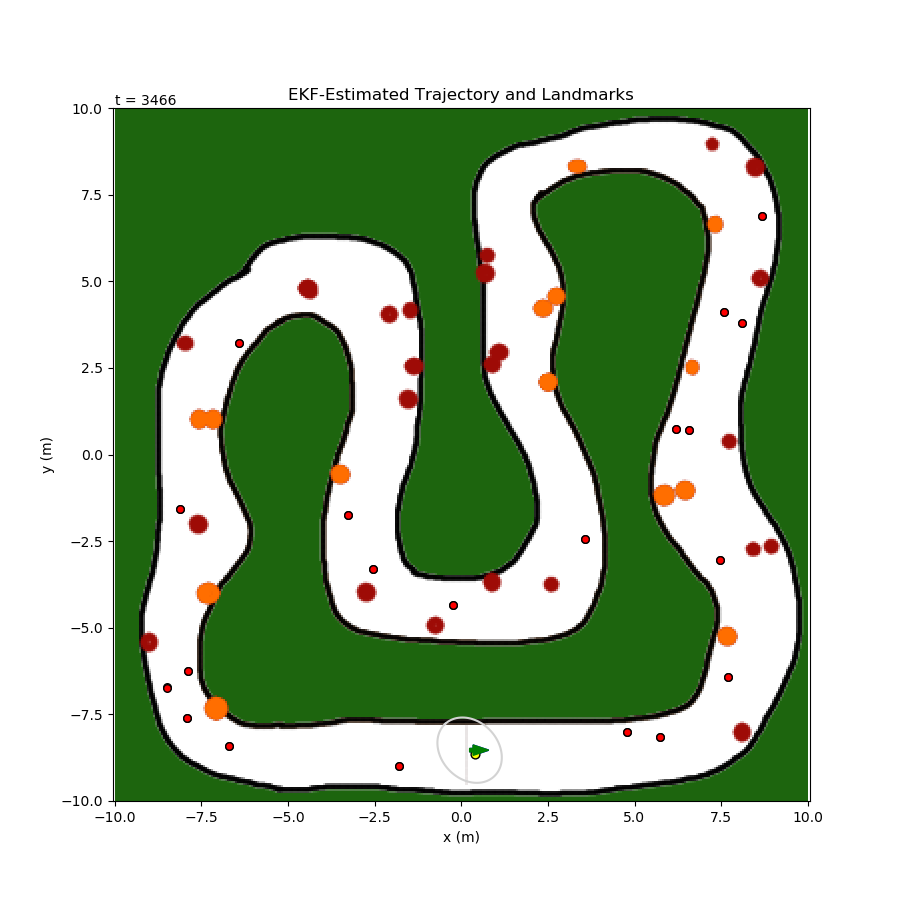
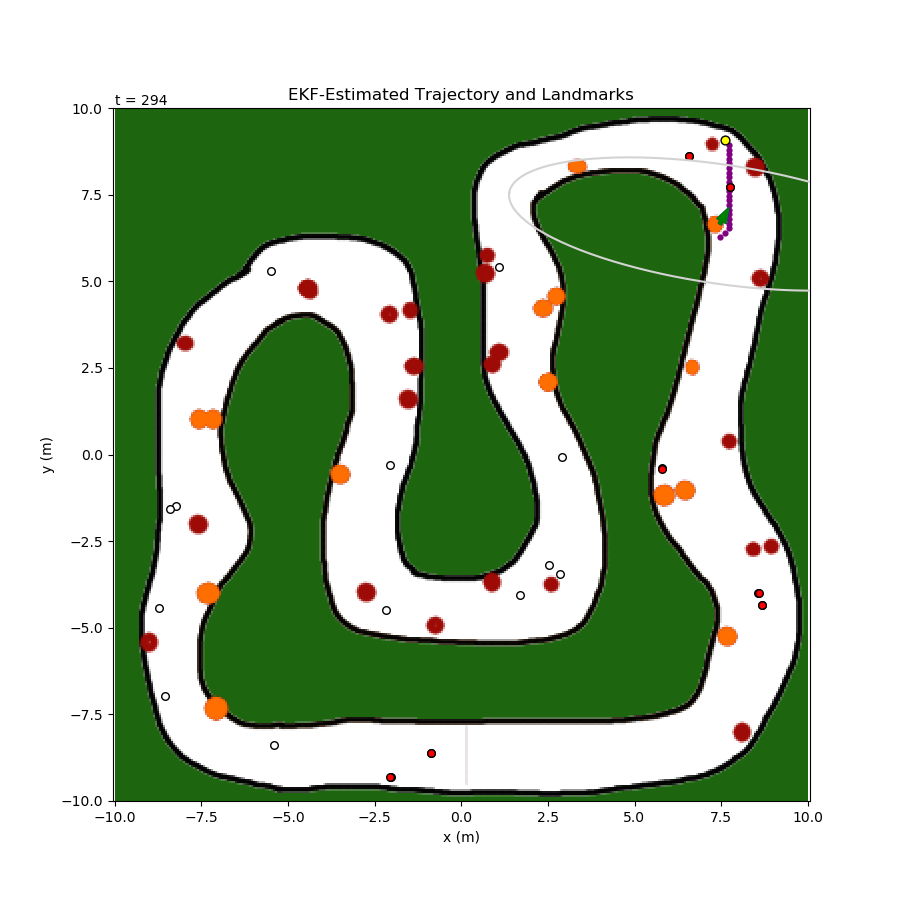
Implement autonomous local planning. Fails if the robot enters an occluded cell (via sloppy pp nav), since A* can never generate a path from there.

diff --git a/ekf_ws/src/planning_pkg/src/astar.py b/ekf_ws/src/planning_pkg/src/astar.py
@@ -3,10 +3,61 @@
 """
 Set of static functions to perform A* path planning.
 """
+from math import cos, sin
 
 class Astar:
     # Always use the same map.
     occ_map = None
+
+    @staticmethod
+    def local_planner(cur):
+        """
+        Choose a free point a small distance ahead to plan to.
+        Simulates the veh only having access to a small local map.
+        """
+        # choose ideal point at the desired distance ahead of the vehicle.
+        pt = (cur[0]+Astar.params["RANGE_MAX"]*cos(cur[2]), cur[1]+Astar.params["RANGE_MAX"]*sin(cur[2]))
+        goal = Astar.tf_ekf_to_map(pt)
+        # cap this point to make sure it's on the map.
+        goal = [max(0, min(goal[0], Astar.params["OCC_MAP_SIZE"]-1)), max(0, min(goal[1], Astar.params["OCC_MAP_SIZE"]-1))]
+        # if this point is free, use it.
+        if Astar.occ_map[goal[0]][goal[1]] == 1:
+            return Astar.tf_map_to_ekf(goal)
+
+        # find the nearest free cell to this one to use as our goal.
+        open_list = [Cell(goal)]
+        closed_list = []
+        # iterate until finding a free cell or exhausting all cells within region.
+        while len(open_list) > 0:
+            # move first element of open list to closed list.
+            # open_list.sort(key=lambda cell: cell.g)
+            cur_cell = open_list.pop(0)
+
+            # add this node to the closed list.
+            closed_list.append(cur_cell)
+            # add its neighbors to the open list.
+            for chg in [(0, -1), (0, 1), (-1, 0), (1, 0)]:
+                # check each cell for occlusion and if we've already checked it.
+                nbr = Cell([cur_cell.i+chg[0], cur_cell.j+chg[1]], parent=cur_cell)
+                # skip if out of bounds.
+                if nbr.i < 0 or nbr.j < 0 or nbr.i >= Astar.params["OCC_MAP_SIZE"] or nbr.j >= Astar.params["OCC_MAP_SIZE"]: continue
+                
+                # stop if we've found a free cell to use as the goal.
+                if Astar.occ_map[nbr.i][nbr.j] == 1:
+                    # return this pt to be used for A* path planning.
+                    return Astar.tf_map_to_ekf((nbr.i, nbr.j))
+                    
+                # skip if this is too far from our ideal goal cell.
+                # if nbr.g > Astar.params["LOCAL_PLANNER_SEARCH_RADIUS"]: continue
+                # skip if already in closed list.
+                if any([nbr == c for c in closed_list]): continue
+                # skip if already in open list.
+                if any([nbr == c for c in open_list]): continue
+                # add cell to open list.
+                open_list.append(nbr)
+        # no free cell was found.
+        return None
+
 
     @staticmethod
     def astar(start, goal):
@@ -41,6 +92,8 @@ class Astar:
                 nbr = Cell([cur_cell.i+chg[0], cur_cell.j+chg[1]], parent=cur_cell)
                 # skip if out of bounds.
                 if nbr.i < 0 or nbr.j < 0 or nbr.i >= Astar.params["OCC_MAP_SIZE"] or nbr.j >= Astar.params["OCC_MAP_SIZE"]: continue
+                # if using local planner, skip if path distance here is too big.
+                # if Astar.params["USE_LOCAL_PLANNER"] and nbr.g > Astar.params["LOCAL_PLANNER_SEARCH_RADIUS"]: continue
                 # skip if occluded.
                 if Astar.occ_map[nbr.i][nbr.j] == 0: continue
                 # skip if already in closed list.

diff --git a/ekf_ws/src/planning_pkg/src/goal_pursuit_node.py b/ekf_ws/src/planning_pkg/src/goal_pursuit_node.py
@@ -42,6 +42,19 @@ def get_ekf_state(msg):
     # update current position.
     global cur
     cur = [msg.x_v, msg.y_v, msg.yaw_v]
+    if params["USE_LOCAL_PLANNER"] and msg.timestep % 5 == 0:
+        # choose arbitrary free point ahead to use as goal.
+        goal = Astar.local_planner(cur)
+        if goal is None:
+            rospy.logwarn("Could not find a free point to plan towards.")
+            cmd_pub.publish(Command(fwd=0,ang=0))
+            return
+        # clear the current path.
+        PurePursuit.goal_queue = []
+        # generate path to get to new goal.
+        find_path_to_goal(goal)
+
+    # else: # follow path to point clicked on map.
     # check size of path.
     path_len = len(PurePursuit.goal_queue)
     # call the desired navigation function.
@@ -60,6 +73,10 @@ def get_ekf_state(msg):
 
 
 def get_goal_pt(msg):
+    # check operating mode.
+    if params["USE_LOCAL_PLANNER"]:
+        rospy.logerr("Cannot select a goal point while running in local planner mode.")
+        return
     # verify chosen pt is on the map and not in collision.
     try:
         if occ_map[Astar.tf_ekf_to_map((msg.x,msg.y))[0]][Astar.tf_ekf_to_map((msg.x,msg.y))[1]] == 0:
@@ -68,11 +85,17 @@ def get_goal_pt(msg):
     except:
         rospy.logerr("Selected point is outside map bounds.")
         return
-
     rospy.loginfo("Setting goal pt to ("+"{0:.4f}".format(msg.x)+", "+"{0:.4f}".format(msg.y)+")")
+    find_path_to_goal((msg.x, msg.y))
+
+
+def find_path_to_goal(goal):
+    """
+    Given a desired goal point, use A* to generate a path there.
+    """
     # if running in "simple" mode, only add goal point rather than path planning.
     if params["NAV_METHOD"] == "simple":
-        PurePursuit.goal_queue.append([msg.x, msg.y])
+        PurePursuit.goal_queue.append(goal)
         return
     # determine starting pos for path.
     if len(PurePursuit.goal_queue) > 0: # use end of prev segment as start if there is one.
@@ -80,7 +103,7 @@ def get_goal_pt(msg):
     else: # otherwise use the current position estimate.
         start = cur
     # generate path with A*.
-    path = Astar.astar(start, [msg.x, msg.y])
+    path = Astar.astar(start, goal)
     if path is None:
         rospy.logerr("No path found by A*.")
         return
@@ -116,6 +139,8 @@ def main():
 
     # subscribe to current goal point.
     rospy.Subscriber("/plan/goal", Vector3, get_goal_pt, queue_size=1)
+    # publish current goal point when using local planner.
+    # goal_pub = rospy.Publisher("/plan/goal", Vector3, queue_size=1)
     # publish planned path to the goal.
     path_pub = rospy.Publisher("/plan/path", Float32MultiArray, queue_size=1)
 

diff --git a/ekf_ws/src/data_pkg/src/plotting_node.py b/ekf_ws/src/data_pkg/src/plotting_node.py
@@ -194,13 +194,19 @@ def on_click(event):
         exit()
     elif event.button is MouseButton.LEFT:
         # update the plot to show the current goal.
-        if "goal_pt" in plots.keys():
-            plots["goal_pt"].remove()
-            del plots["goal_pt"]
-        plots["goal_pt"] = plt.scatter(event.xdata, event.ydata, color="yellow", edgecolors="black", s=40, zorder=2)
+        # if "goal_pt" in plots.keys():
+        #     plots["goal_pt"].remove()
+        #     del plots["goal_pt"]
+        # plots["goal_pt"] = plt.scatter(event.xdata, event.ydata, color="yellow", edgecolors="black", s=40, zorder=2)
         # publish new goal pt for the planner.
         goal_pub.publish(Vector3(x=event.xdata, y=event.ydata))
 
+# def get_goal_pt(msg):
+#     # update the plot to show the current goal.
+#     if "goal_pt" in plots.keys():
+#         plots["goal_pt"].remove()
+#         del plots["goal_pt"]
+#     plots["goal_pt"] = plt.scatter(msg.x, msg.y, color="yellow", edgecolors="black", s=40, zorder=2)
 
 def get_color_map(msg):
     if not Config.params["SHOW_OCC_MAP"]: return
@@ -219,9 +225,14 @@ def get_planned_path(msg):
     if "planned_path" in plots.keys():
         plots["planned_path"].remove()
         del plots["planned_path"]
+    if "goal_pt" in plots.keys():
+            plots["goal_pt"].remove()
+            del plots["goal_pt"]
     # only draw if the path is non-empty.
     if len(msg.data) > 1:
         plots["planned_path"] = plt.scatter([msg.data[i] for i in range(0,len(msg.data),2)], [msg.data[i] for i in range(1,len(msg.data),2)], s=12, color="purple", zorder=1)
+        # show the goal point (end of path).
+        plots["goal_pt"] = plt.scatter(msg.data[-2], msg.data[-1], color="yellow", edgecolors="black", s=40, zorder=2)
 
 def main():
     global goal_pub
@@ -249,6 +260,8 @@ def main():
 
     # publish the chosen goal point for the planner.
     goal_pub = rospy.Publisher("/plan/goal", Vector3, queue_size=1)
+    # subscribe to current goal point if using local planner.
+    # rospy.Subscriber("/plan/goal", Vector3, get_goal_pt, queue_size=1)
     # subscribe to planned path to the goal.
     rospy.Subscriber("/plan/path", Float32MultiArray, get_planned_path, queue_size=1)
 
